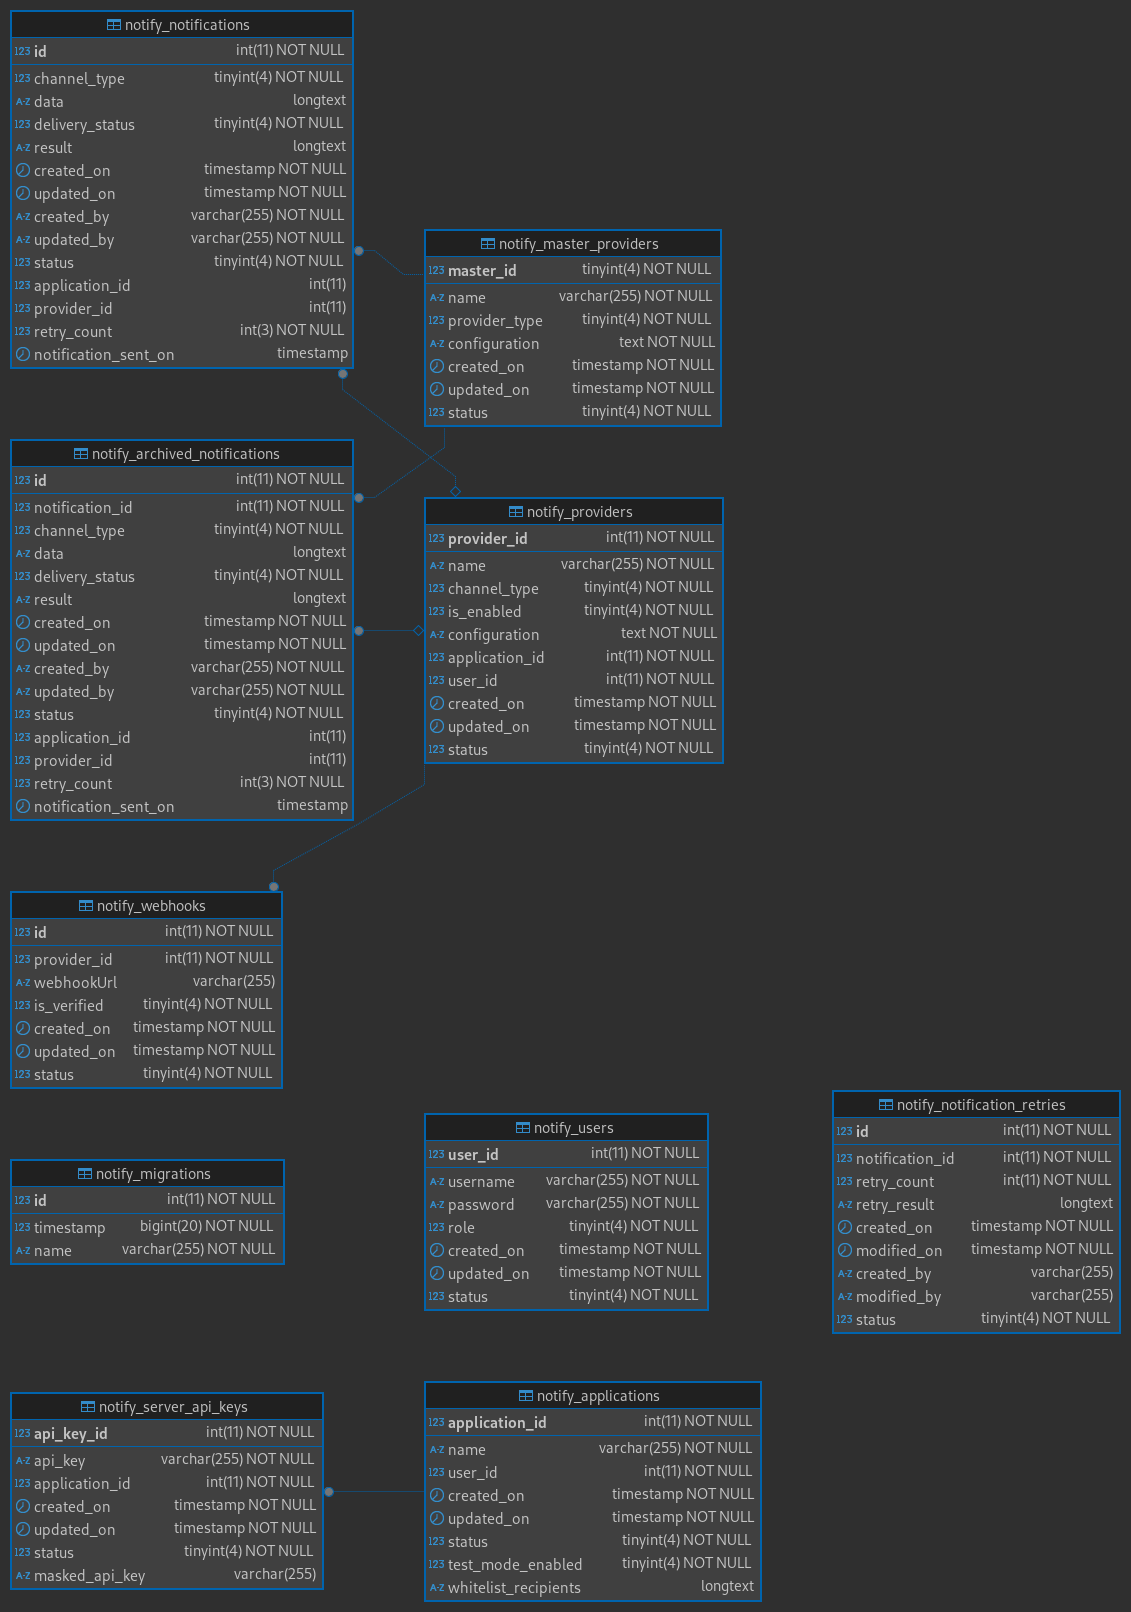
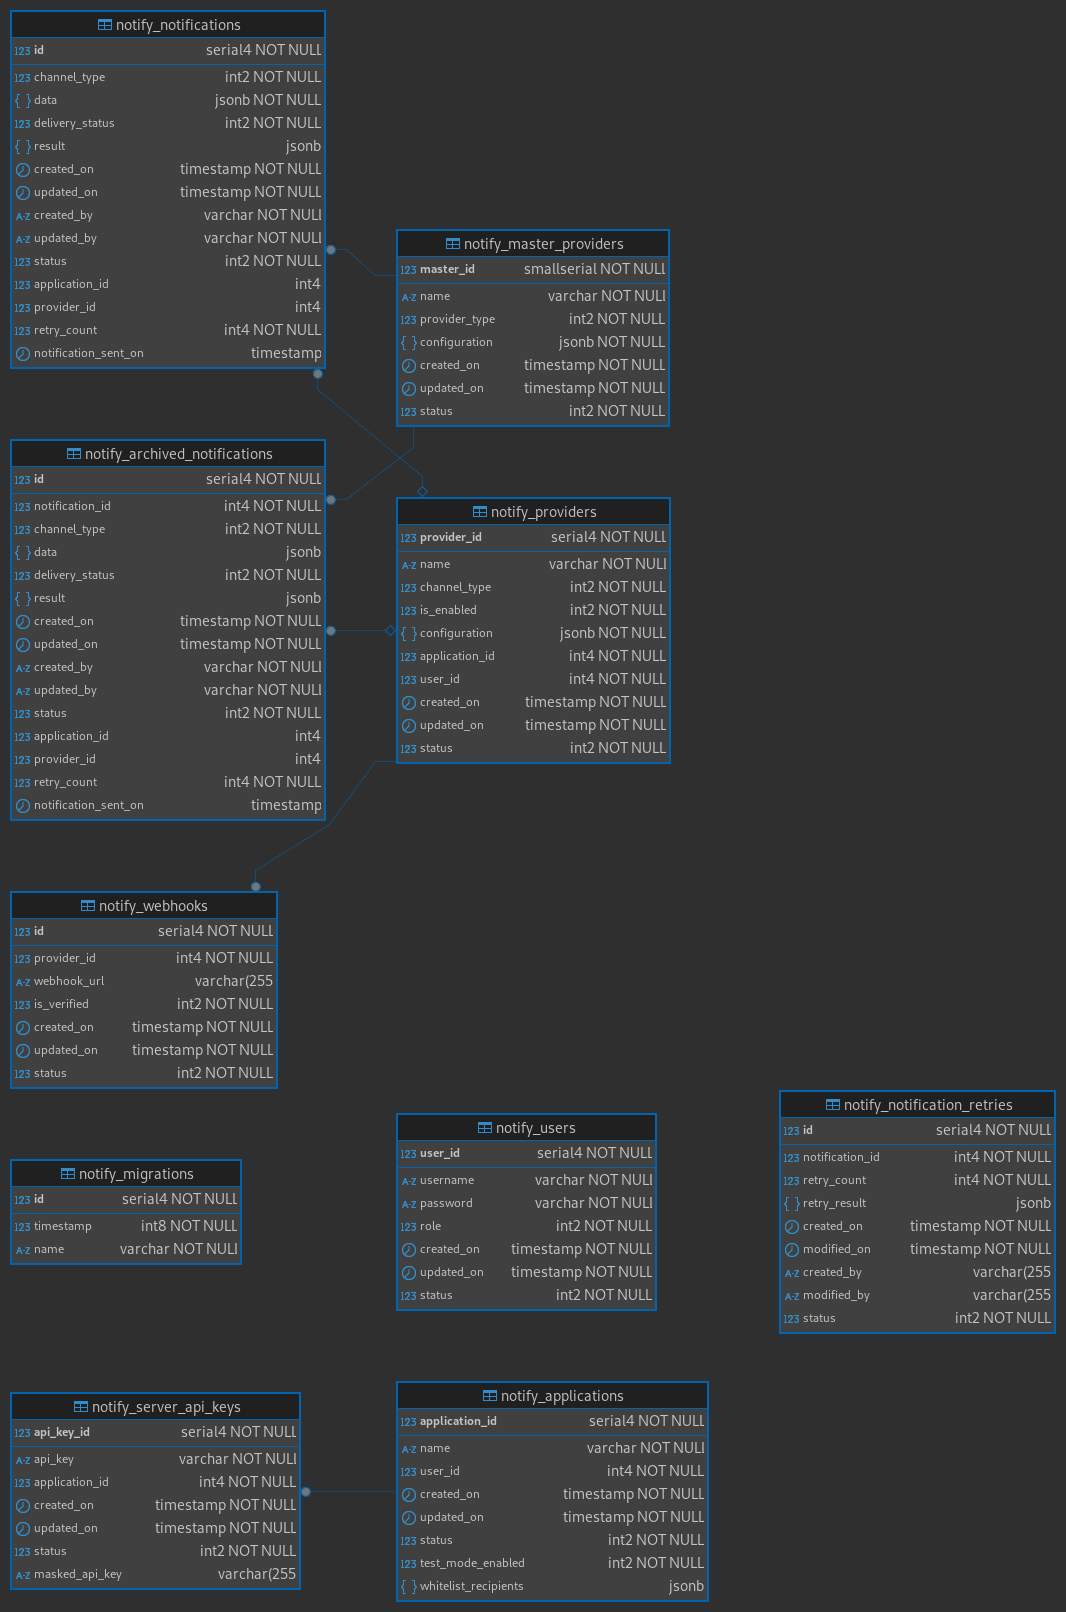
docs: use postgres

diff --git a/apps/api/docs/production-setup.md b/apps/api/docs/production-setup.md
@@ -9,7 +9,7 @@ Before setting up OsmoX for production, ensure you have the following prerequisi
 - **NVM (Node Version Manager):** Use NVM to manage Node.js versions.
 - **Node.js** Node.js v20.x or higher.
 - **Git:** Git v2.x or higher.
-- **MariaDB:** MariaDB v10.x or higher.
+- **PostgreSQL:** PostgreSQL v16.x or higher.
 - **Redis:** Redis v6.x or higher
 - **PM2 (Process Manager):** PM2 v5.x or higher.
 - **Docker:** Docker v26.1.2
@@ -17,7 +17,7 @@ Before setting up OsmoX for production, ensure you have the following prerequisi
 
 These prerequisites are essential for deploying and running OsmoX in an environment.
 
-Make sure Redis and MariaDB server are up and running.
+Make sure Redis and PostgreSQL server are up and running.
 
 ## Server Configuration
 
@@ -98,7 +98,7 @@ Save pm2 config:
 
 **Step 1: Update Environment Variables**
 
-Before using Docker, ensure you've configured the environment variables in your `.env` file correctly. Update values such as `NODE_ENV`, `SERVER_PORT`, `MARIADB_DOCKER_PORT`, `REDIS_DOCKER_PORT`, `REDIS_HOST`, and `DB_HOST` as required for your Docker setup.
+Before using Docker, ensure you've configured the environment variables in your `.env` file correctly. Update values such as `NODE_ENV`, `SERVER_PORT`, `DB_DOCKER_PORT`, `REDIS_DOCKER_PORT`, `REDIS_HOST`, and `DB_HOST` as required for your Docker setup.
 
 **Step 2: Build your docker container**
 

diff --git a/apps/api/docs/development-setup.md b/apps/api/docs/development-setup.md
@@ -9,18 +9,18 @@ Before setting up OsmoX for development, ensure you have the following prerequis
 - **NVM (Node Version Manager):** Use NVM to manage Node.js versions.
 - **Node.js** Node.js v20.x or higher. Can be installed via `nvm` using `nvm install 20` and used with `nvm use 20`.
 - **Git:** Git v2.x or higher.
-- **MariaDB:** MariaDB v10.x or higher.
+- **PostgreSQL:** PostgreSQL v16.x or higher.
 - **Redis:** Redis v6.x or higher
 
-These prerequisites are essential for deploying and running OsmoX in an environment.
+These prerequisites are essPostgresential for deploying and running OsmoX in an environment.
 
 Please make sure to have these versions installed on your development server before proceeding with the setup.
 
-Make sure Redis and MariaDB server are up and running.
+Make sure Redis and PostgreSQL server are up and running.
 
 ```bash
 sudo systemctl status redis
-sudo systemctl status mariadb
+sudo systemctl status postgresql
 ```
 
 ## Getting Started
@@ -50,7 +50,7 @@ sudo systemctl status mariadb
 
 4. Set up the database:
 
-   Ensure your database server (e.g., MariaDB) is running.
+   Ensure your database server (e.g., PostgreSQL) is running.
 
    Run database migrations to create tables:
 

diff --git a/apps/api/docs/block-diagram.md b/apps/api/docs/block-diagram.md
@@ -28,7 +28,7 @@ Upon receiving the request, the API stores the received details in the database.
 
 ### 3. Database
 
-The MariaDB database is responsible for holding the records of different notifications that have been created along with all other required details about them such as the request body, delivery status, notification channel type, response data, etc. Additionally, database migrations are also stored in this database. The notifications in database are updated with the response received from the provider used upon delivery success/failure.
+The Postgres database is responsible for holding the records of different notifications that have been created along with all other required details about them such as the request body, delivery status, notification channel type, response data, etc. Additionally, database migrations are also stored in this database. The notifications in database are updated with the response received from the provider used upon delivery success/failure.
 
 ### 4. Cron
 
